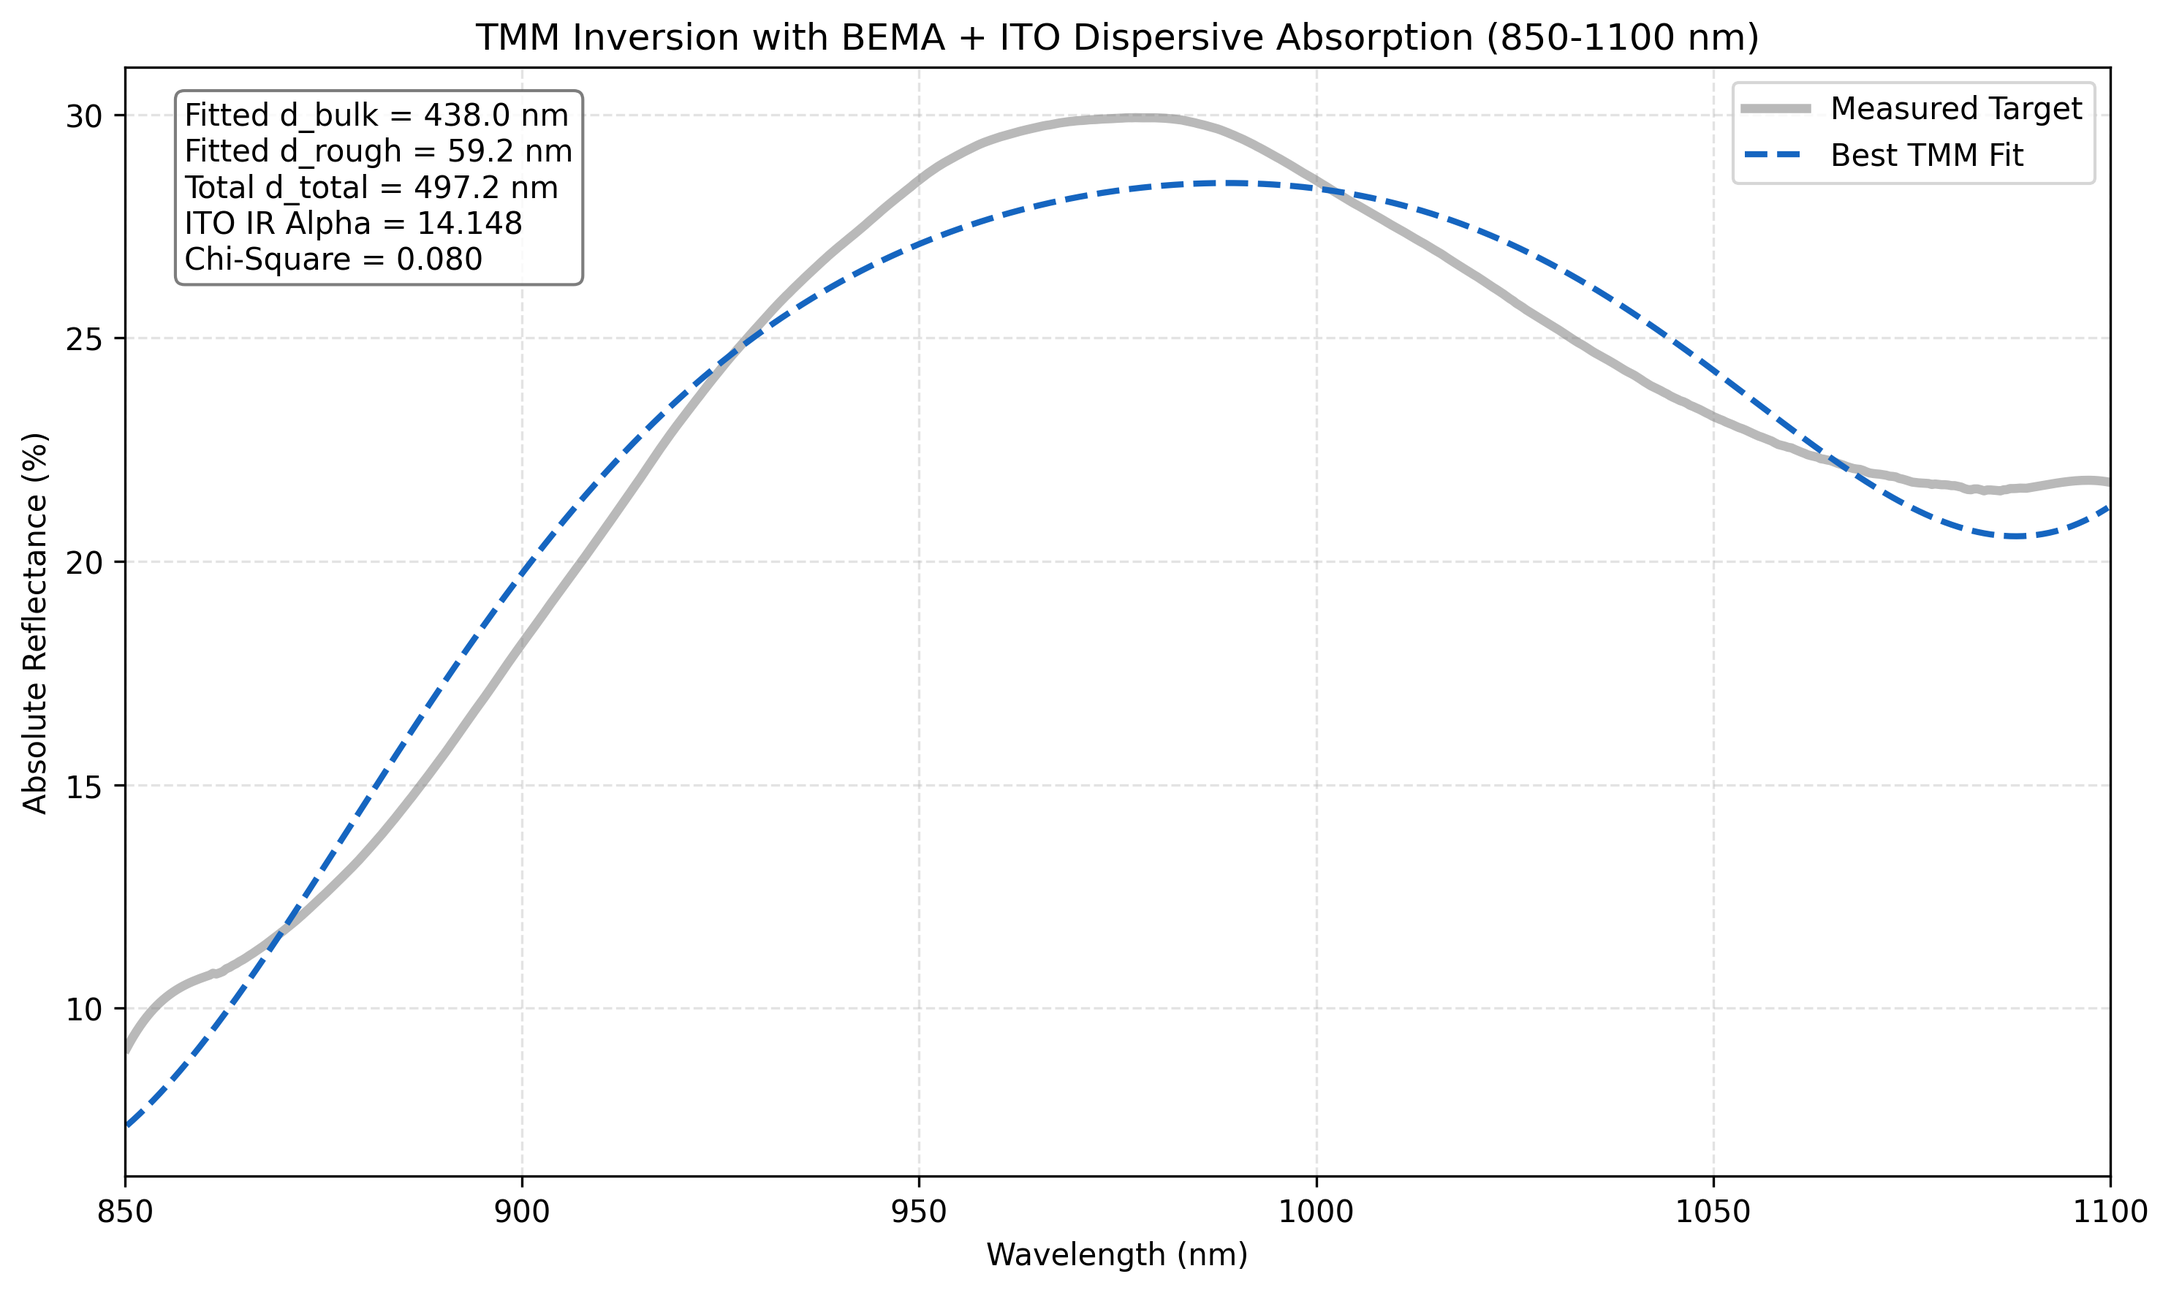
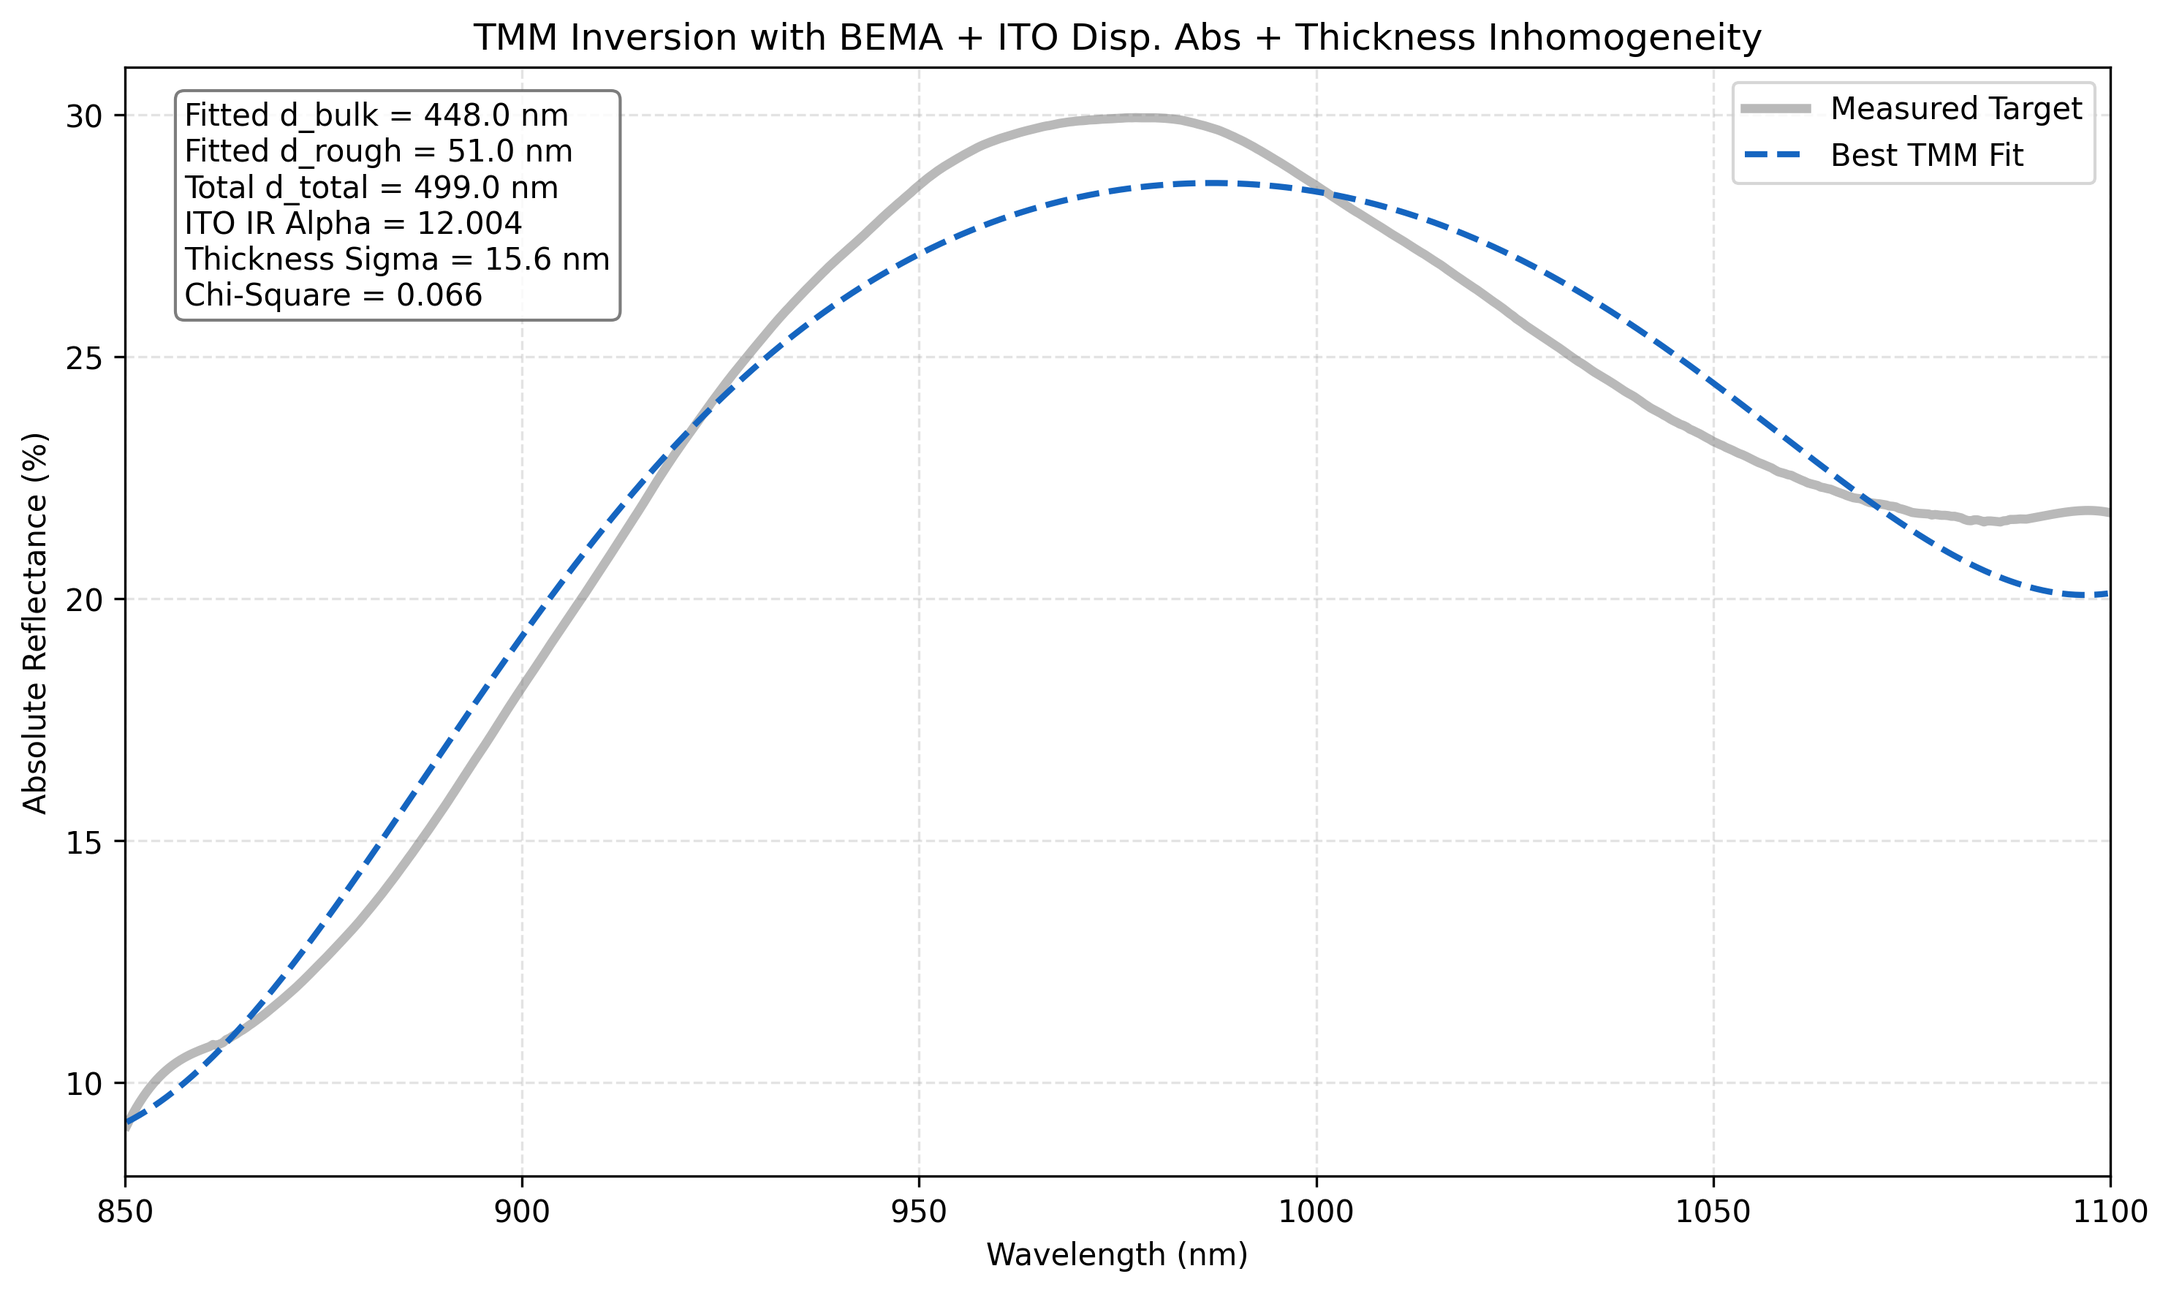
[Phase 02] 引入宏观厚度不均匀性四参数反演

diff --git a/src/scripts/step02_tmm_inversion.py b/src/scripts/step02_tmm_inversion.py
@@ -10,7 +10,7 @@
 4. PVK 外推 n-k 中间件加载与插值
 5. BEMA 表面粗糙度修正
 6. 厚玻璃非相干修正 + 相干薄膜 TMM
-7. lmfit 三参数厚度反演
+7. lmfit 四参数厚度反演
 8. 结果绘图
 """
 
@@ -42,15 +42,18 @@ SAM_THICKNESS_NM = 2.0
 NIOX_NK = 2.1 + 0.0j
 SAM_NK = 1.8 + 0.0j
 
-INITIAL_PVK_BULK_THICKNESS_NM = 450.0
+INITIAL_PVK_BULK_THICKNESS_NM = 440.0
 MIN_PVK_BULK_THICKNESS_NM = 400.0
-MAX_PVK_BULK_THICKNESS_NM = 650.0
+MAX_PVK_BULK_THICKNESS_NM = 500.0
 INITIAL_PVK_ROUGHNESS_THICKNESS_NM = 60.0
 MIN_PVK_ROUGHNESS_THICKNESS_NM = 0.0
 MAX_PVK_ROUGHNESS_THICKNESS_NM = 100.0
 INITIAL_ITO_ALPHA = 5.0
 MIN_ITO_ALPHA = 0.0
 MAX_ITO_ALPHA = 30.0
+INITIAL_THICKNESS_SIGMA_NM = 15.0
+MIN_THICKNESS_SIGMA_NM = 0.0
+MAX_THICKNESS_SIGMA_NM = 60.0
 
 
 def get_project_root() -> Path:
@@ -374,6 +377,7 @@ def calc_macro_reflectance(
     d_bulk_nm: float,
     d_rough_nm: float,
     ito_alpha: float,
+    sigma_thickness_nm: float,
     wavelength_nm: np.ndarray,
     get_ito_nk: Callable[[np.ndarray], np.ndarray],
     get_pvk_nk: Callable[[np.ndarray], np.ndarray],
@@ -399,34 +403,46 @@ def calc_macro_reflectance(
     ito_nk = apply_dispersive_absorption_correction(ito_base_nk, wavelength, ito_alpha)
     pvk_bulk_nk = get_pvk_nk(wavelength)
     pvk_rough_nk = calc_bema_rough_nk(pvk_bulk_nk)
-
-    r_coh = np.empty_like(wavelength, dtype=float)
-
-    for index, wl_nm in enumerate(wavelength):
-        n_list = [
-            GLASS_INDEX + 0.0j,
-            ito_nk[index],
-            NIOX_NK,
-            SAM_NK,
-            pvk_bulk_nk[index],
-            pvk_rough_nk[index],
-            AIR_INDEX + 0.0j,
-        ]
-        d_list = [
-            np.inf,
-            ITO_THICKNESS_NM,
-            NIOX_THICKNESS_NM,
-            SAM_THICKNESS_NM,
-            d_bulk_nm,
-            d_rough_nm,
-            np.inf,
-        ]
-        tmm_result = coh_tmm("s", n_list, d_list, 0.0, wl_nm)
-        r_coh[index] = float(tmm_result["R"])
-
     r_front = ((GLASS_INDEX - AIR_INDEX) / (GLASS_INDEX + AIR_INDEX)) ** 2
-    r_total = r_front + (((1.0 - r_front) ** 2) * r_coh) / (1.0 - r_front * r_coh)
-    return r_total
+
+    def calc_single_reflectance(single_d_bulk_nm: float) -> np.ndarray:
+        r_coh = np.empty_like(wavelength, dtype=float)
+
+        for index, wl_nm in enumerate(wavelength):
+            n_list = [
+                GLASS_INDEX + 0.0j,
+                ito_nk[index],
+                NIOX_NK,
+                SAM_NK,
+                pvk_bulk_nk[index],
+                pvk_rough_nk[index],
+                AIR_INDEX + 0.0j,
+            ]
+            d_list = [
+                np.inf,
+                ITO_THICKNESS_NM,
+                NIOX_THICKNESS_NM,
+                SAM_THICKNESS_NM,
+                single_d_bulk_nm,
+                d_rough_nm,
+                np.inf,
+            ]
+            tmm_result = coh_tmm("s", n_list, d_list, 0.0, wl_nm)
+            r_coh[index] = float(tmm_result["R"])
+
+        return r_front + (((1.0 - r_front) ** 2) * r_coh) / (1.0 - r_front * r_coh)
+
+    if sigma_thickness_nm < 0.1:
+        return calc_single_reflectance(d_bulk_nm)
+
+    offsets_nm = np.linspace(-3.0 * sigma_thickness_nm, 3.0 * sigma_thickness_nm, 9, dtype=float)
+    weights = np.exp(-(offsets_nm**2) / (2.0 * sigma_thickness_nm**2))
+    weights /= np.sum(weights)
+
+    r_total_averaged = np.zeros_like(wavelength, dtype=float)
+    for offset_nm, weight in zip(offsets_nm, weights):
+        r_total_averaged += weight * calc_single_reflectance(d_bulk_nm + offset_nm)
+    return r_total_averaged
 
 
 def residual(
@@ -440,7 +456,16 @@ def residual(
     d_bulk_nm = params["d_bulk"].value
     d_rough_nm = params["d_rough"].value
     ito_alpha = params["ito_alpha"].value
-    r_model = calc_macro_reflectance(d_bulk_nm, d_rough_nm, ito_alpha, wavelength_nm, get_ito_nk, get_pvk_nk)
+    sigma_thickness_nm = params["sigma_thickness"].value
+    r_model = calc_macro_reflectance(
+        d_bulk_nm,
+        d_rough_nm,
+        ito_alpha,
+        sigma_thickness_nm,
+        wavelength_nm,
+        get_ito_nk,
+        get_pvk_nk,
+    )
     return r_model - r_target
 
 
@@ -452,6 +477,7 @@ def plot_fit_result(
     d_rough_nm: float,
     d_total_nm: float,
     ito_alpha: float,
+    sigma_thickness_nm: float,
     chisqr: float,
     output_path: Path,
 ) -> None:
@@ -480,6 +506,7 @@ def plot_fit_result(
         f"Fitted d_rough = {d_rough_nm:.1f} nm\n"
         f"Total d_total = {d_total_nm:.1f} nm\n"
         f"ITO IR Alpha = {ito_alpha:.3f}\n"
+        f"Thickness Sigma = {sigma_thickness_nm:.1f} nm\n"
         f"Chi-Square = {chisqr:.3f}"
     )
     ax.text(
@@ -496,7 +523,7 @@ def plot_fit_result(
     ax.set_xlim(WAVELENGTH_MIN_NM, WAVELENGTH_MAX_NM)
     ax.set_xlabel("Wavelength (nm)")
     ax.set_ylabel("Absolute Reflectance (%)")
-    ax.set_title("TMM Inversion with BEMA + ITO Dispersive Absorption (850-1100 nm)")
+    ax.set_title("TMM Inversion with BEMA + ITO Disp. Abs + Thickness Inhomogeneity")
     ax.grid(True, linestyle="--", alpha=0.35)
     ax.legend()
 
@@ -544,6 +571,12 @@ def main() -> None:
         min=MIN_ITO_ALPHA,
         max=MAX_ITO_ALPHA,
     )
+    params.add(
+        "sigma_thickness",
+        value=INITIAL_THICKNESS_SIGMA_NM,
+        min=MIN_THICKNESS_SIGMA_NM,
+        max=MAX_THICKNESS_SIGMA_NM,
+    )
 
     result = minimize(
         residual,
@@ -555,8 +588,17 @@ def main() -> None:
     d_bulk_best_nm = float(result.params["d_bulk"].value)
     d_rough_best_nm = float(result.params["d_rough"].value)
     ito_alpha_best = float(result.params["ito_alpha"].value)
+    sigma_thickness_best_nm = float(result.params["sigma_thickness"].value)
     d_total_best_nm = d_bulk_best_nm + d_rough_best_nm
-    r_best_fit = calc_macro_reflectance(d_bulk_best_nm, d_rough_best_nm, ito_alpha_best, wavelength_nm, get_ito_nk, get_pvk_nk)
+    r_best_fit = calc_macro_reflectance(
+        d_bulk_best_nm,
+        d_rough_best_nm,
+        ito_alpha_best,
+        sigma_thickness_best_nm,
+        wavelength_nm,
+        get_ito_nk,
+        get_pvk_nk,
+    )
 
     if np.any(~np.isfinite(r_best_fit)):
         raise ValueError("最佳拟合反射率中出现 NaN 或 Inf，说明模型数值计算失败。")
@@ -569,17 +611,19 @@ def main() -> None:
         d_rough_nm=d_rough_best_nm,
         d_total_nm=d_total_best_nm,
         ito_alpha=ito_alpha_best,
+        sigma_thickness_nm=sigma_thickness_best_nm,
         chisqr=float(result.chisqr),
         output_path=output_path,
     )
 
-    print("TMM 三参数厚度反演完成。")
+    print("TMM 四参数厚度反演完成。")
     print(f"目标曲线输入: {target_csv}")
     print(f"反演结果图片: {output_path}")
     print(f"Fitted d_bulk = {d_bulk_best_nm:.3f} nm")
     print(f"Fitted d_rough = {d_rough_best_nm:.3f} nm")
     print(f"Fitted d_total = {d_total_best_nm:.3f} nm")
     print(f"ITO IR Alpha = {ito_alpha_best:.6f}")
+    print(f"Thickness Sigma = {sigma_thickness_best_nm:.6f} nm")
     print(f"Chi-Square = {float(result.chisqr):.6f}")
     print(f"拟合状态: success={result.success}, nfev={result.nfev}")
 

diff --git a/docs/PROJECT_STATE.md b/docs/PROJECT_STATE.md
@@ -10,7 +10,7 @@
 - 当前可用能力：
   - 已有 `step01_absolute_calibration.py`，可将样品与银镜原始计数转换为绝对反射率
   - 已有 `step01b_cauchy_extrapolation.py`，可基于 [LIT-0001] 的 `ITO/CsFAPI` 数字化折射率曲线生成 `750-1100 nm` 的 CsFAPI 扩展 `n-k` 中间件
-  - 已有 `step02_tmm_inversion.py`，可读取目标反射率、ITO 色散和 CsFAPI 扩展 `n-k` 中间件，执行包含 50/50 BEMA 粗糙度与 ITO 色散吸收补偿的三参数 `d_bulk + d_rough + ito_alpha` 联合反演
+  - 已有 `step02_tmm_inversion.py`，可读取目标反射率、ITO 色散和 CsFAPI 扩展 `n-k` 中间件，执行包含 50/50 BEMA 粗糙度、ITO 色散吸收补偿与宏观厚度不均匀性高斯平均的四参数 `d_bulk + d_rough + ito_alpha + sigma_thickness` 联合反演
   - 已有 `diagnostics_shape_mismatch.py`，可在独立沙盒中对 ITO 近红外吸收、厚度不均匀性和 PVK 色散斜率做形状畸变诊断
   - 已有 `step02_digitize_fapi_optical_constants.py`，可从 `LIT-0001` 的 Fig. 2 原图数字化提取 FAPI 的 `n/κ` 曲线并输出 QA 图
   - 已有 `step02_digitize_csfapi_optical_constants.py`，可从 `LIT-0001` 的 Fig. 3 原图数字化提取 CsFAPI 的 `n/κ` 曲线并输出 QA 图
@@ -146,7 +146,7 @@ TMM-interference-spectrum/
 ### 4.3 `step02_tmm_inversion.py`
 
 - 文件位置：`src/scripts/step02_tmm_inversion.py`
-- 主要职责：读取 `step01` 输出的目标反射率、ITO 色散和 `step01b` 生成的 CsFAPI 扩展 `n-k` 中间件，执行包含 BEMA 表面粗糙度修正与 ITO 色散吸收补偿的三参数联合反演
+- 主要职责：读取 `step01` 输出的目标反射率、ITO 色散和 `step01b` 生成的 CsFAPI 扩展 `n-k` 中间件，执行包含 BEMA 表面粗糙度修正、ITO 色散吸收补偿与宏观厚度不均匀性高斯平均的四参数联合反演
 
 输入：
 - `data/processed/target_reflectance.csv`
@@ -168,12 +168,14 @@ TMM-interference-spectrum/
 - ITO 厚度固定：`105 nm`
 - NiOx 厚度固定：`20 nm`
 - SAM 厚度固定：`2 nm`
-- PVK 块体厚度 `d_bulk` 搜索范围：`400-650 nm`
+- PVK 块体厚度 `d_bulk` 搜索范围：`400-500 nm`
 - PVK 表面粗糙层厚度 `d_rough` 搜索范围：`0-100 nm`
 - ITO 色散吸收参数 `ito_alpha` 搜索范围：`0.0-30.0`
+- 宏观厚度不均匀性参数 `sigma_thickness` 搜索范围：`0.0-60.0 nm`
 - PVK 采用 `step01b` 生成的 CsFAPI 扩展 `n-k` 中间件，并通过线性插值映射到目标波长网格
 - 粗糙层采用 `50% PVK + 50% Air` 的 Bruggeman EMA 有效介质模型
 - ITO 在进入 TMM 之前，锁定实部 `n` 不变，仅对虚部 `k` 施加锚定在 `850-1100 nm` 的二次增长色散吸收缩放
+- 当 `sigma_thickness >= 0.1 nm` 时，对 `d_bulk` 在 `[-3σ, +3σ]` 上做 9 点离散高斯加权平均，以模拟光斑尺度内的宏观厚度不均匀性
 - 相干层堆栈为：`Glass -> ITO -> NiOx -> SAM -> PVK_Bulk -> PVK_Roughness -> Air`
 
 核心处理流程：
@@ -187,8 +189,9 @@ TMM-interference-spectrum/
 - 计算宏观反射率：
   - 玻璃前表面菲涅尔反射
   - 玻璃后方包含粗糙层的薄膜堆栈相干 TMM
+  - 若 `sigma_thickness` 非零，则对多个 `d_bulk` 采样点做高斯加权平均
   - 再按非相干强度级联公式合成总反射率
-- 使用 `lmfit` 的 `leastsq` 做三参数联合反演
+- 使用 `lmfit` 的 `leastsq` 做四参数联合反演
 - 输出最佳拟合图
 
 输出：
@@ -259,7 +262,7 @@ resources/digitized/phase02_fig3_csfapi_optical_constants_digitized.csv
 data/processed/target_reflectance.csv
 data/processed/CsFAPI_nk_extended.csv
 resources/ITO_20 Ohm_105 nm_e1e2.mat
-    -> step02_tmm_inversion.py (CsFAPI 扩展 n-k -> ITO 色散吸收补偿 -> BEMA 粗糙层修正 -> d_bulk + d_rough + ito_alpha 三参数反演)
+    -> step02_tmm_inversion.py (CsFAPI 扩展 n-k -> ITO 色散吸收补偿 -> BEMA 粗糙层修正 -> 宏观厚度高斯平均 -> d_bulk + d_rough + ito_alpha + sigma_thickness 四参数反演)
     -> results/figures/tmm_inversion_result.png
 
 data/processed/target_reflectance.csv
@@ -283,9 +286,9 @@ reference/Khan.../images/885e29d3...
 
 1. `step01` 负责把原始计数校准成可用于物理建模的绝对反射率
 2. `step01b` 把 [LIT-0001] 数字化 CsFAPI 曲线转换成标准近红外 `n-k` 中间件
-3. `step02` 在消费标准 `n-k` 中间件后，先对 ITO 的消光系数 `k` 做锚定 `850-1100 nm` 的色散吸收补偿，再通过 50/50 BEMA 将 PVK-Air 表面粗糙度折算为有效介质层
-4. 当前脚本链已经具备“测量数据 -> 标准中间数据 + 文献外推中间数据 -> ITO 色散吸收 + BEMA 修正 TMM 三参数反演图表”的最小闭环
-5. 这轮色散吸收探针已显著压低长波端误差，说明底层吸收缺失确实是主导项
+3. `step02` 在消费标准 `n-k` 中间件后，先对 ITO 的消光系数 `k` 做锚定 `850-1100 nm` 的色散吸收补偿，再通过 50/50 BEMA 将 PVK-Air 表面粗糙度折算为有效介质层，并对 `d_bulk` 做高斯厚度平均
+4. 当前脚本链已经具备“测量数据 -> 标准中间数据 + 文献外推中间数据 -> ITO 色散吸收 + BEMA 修正 + 厚度不均匀性平均 TMM 四参数反演图表”的最小闭环
+5. 这轮升级的目标是继续压低峰谷尖锐度，让模型条纹圆润度向实测靠近
 
 ## 6. Key Physical / Numerical Assumptions
 
@@ -300,7 +303,7 @@ reference/Khan.../images/885e29d3...
 - `1000-1100 nm` 属于超出原始椭偏测量窗口的模型外推区
 - 粗糙层采用 `50% PVK + 50% Air` 的 BEMA 有效介质
 - ITO 的额外吸收以锁定实部 `n` 的色散参数 `ito_alpha` 表示，其对 `k` 的放大在 `850 nm` 处为 1，在 `1100 nm` 处为 `1 + ito_alpha`
-- 反演当前同时拟合 `d_bulk`、`d_rough` 与 `ito_alpha` 三个参数
+- 反演当前同时拟合 `d_bulk`、`d_rough`、`ito_alpha` 与 `sigma_thickness` 四个参数
 
 这些假设是理解结果与后续扩展的关键锚点；若后续有改动，必须同步更新本文件。
 
@@ -330,16 +333,16 @@ reference/Khan.../images/885e29d3...
 - 当前状态：
   - 功能可用，但结果留痕不够完整
 
-### 7.3 当前反演模型参数自由度较低
+### 7.3 当前反演模型虽已扩展，但结构解释仍非唯一
 
 - 表现：
-  - 当前仅反演 `d_bulk` 与 `d_rough`
-  - ITO/NiOx/SAM 厚度与材料参数均固定
+  - 当前已反演 `d_bulk`、`d_rough`、`ito_alpha` 与 `sigma_thickness`
+  - ITO/NiOx/SAM 厚度与多数材料参数仍固定
 - 影响：
-  - 双参数收敛仍不等于结构解释唯一
+  - 四参数收敛仍不等于结构解释唯一
   - 对模型误差与参数耦合的吸收能力有限
 - 当前状态：
-  - 已比单参数模型更能吸收表面粗糙度导致的振幅偏差
+  - 已比早期模型更能吸收表面粗糙度、底层吸收和峰谷展宽偏差
   - 不适合作为最终物理解译结论
 
 ### 7.4 图像数字化结果不是原始实验表
@@ -384,6 +387,7 @@ reference/Khan.../images/885e29d3...
 - 当前状态：
   - 已通过 ITO 色散吸收补偿并入 `step02_tmm_inversion.py`
   - 当前主流程已能把长波端托平明显拉回实测曲线附近
+  - 本轮继续加入 `sigma_thickness`，用于吸收光斑尺度内的峰谷钝化与条纹展宽
 
 ## 8. Architecture Risks
 
@@ -439,7 +443,13 @@ reference/Khan.../images/885e29d3...
 - 本轮主流程进一步表明：把吸收放大限制在长波端，比全局标量吸收更符合数据
 - 后续仍需关注 `ito_alpha` 是否与 `d_bulk` / `d_rough` 存在新的参数相关性
 
-### 8.8 结果文件命名尚未 Phase 化
+### 8.8 宏观厚度不均匀性会进一步放大参数相关性
+
+- `sigma_thickness` 会直接影响峰谷圆润度、条纹对比度和局部形状
+- 因此它可能与 `d_rough` 和 `ito_alpha` 共同吸收同一部分误差
+- 该机制能提升拟合灵活性，但也会进一步削弱“单组参数唯一对应单一物理结构”的可解释性
+
+### 8.9 结果文件命名尚未 Phase 化
 
 - 当前图像文件名尚未显式带上 `phaseXX`
 - 后续结果积累后，可能不利于多轮实验比较和回滚定位
@@ -449,15 +459,15 @@ reference/Khan.../images/885e29d3...
 - 更新时间：`2026-04-06`
 - 当前 Phase：`Phase 02`
 - 本次新增/修改：
-  - 在 `step02_tmm_inversion.py` 中将 ITO 补偿升级为锚定 `850-1100 nm` 的色散吸收函数
-  - 将主流程调整为 `d_bulk + d_rough + ito_alpha` 三参数联合反演
-  - 更新 `PROJECT_STATE.md` 以反映色散吸收补偿并入主流程
+  - 在 `step02_tmm_inversion.py` 中将主流程升级为包含宏观厚度不均匀性高斯平均的四参数反演
+  - 将主流程参数调整为 `d_bulk + d_rough + ito_alpha + sigma_thickness`
+  - 更新 `PROJECT_STATE.md` 以反映厚度不均匀性并入主流程
 - 已验证结论：
   - ITO 近红外吸收增强是当前形状畸变的主导修复机制
   - 色散吸收版比全局标量吸收版更有效，能在不压塌 850 nm 主峰的前提下显著拉低长波端误差
 - 仍待验证：
   - `1000-1100 nm` 外推段的物理可信度仍需后续用原始数据或独立测量交叉验证
-  - `d_bulk`、`d_rough` 与 `ito_alpha` 的相关性是否会影响最终物理解读，还需后续继续评估
+  - `d_bulk`、`d_rough`、`ito_alpha` 与 `sigma_thickness` 的相关性是否会影响最终物理解读，还需后续继续评估
 
 ## 10. Recommended Next Actions
 
